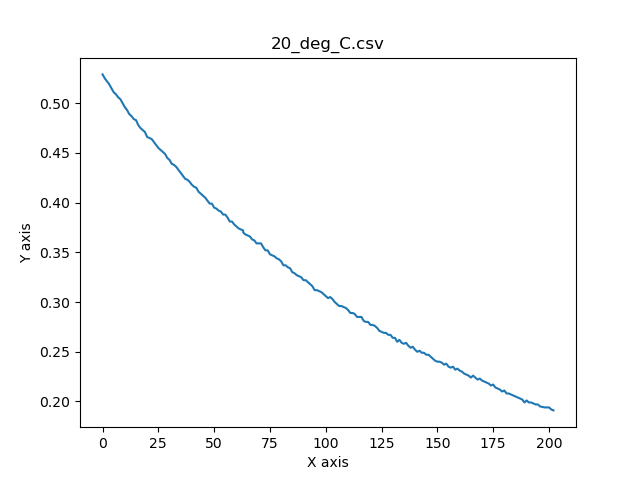
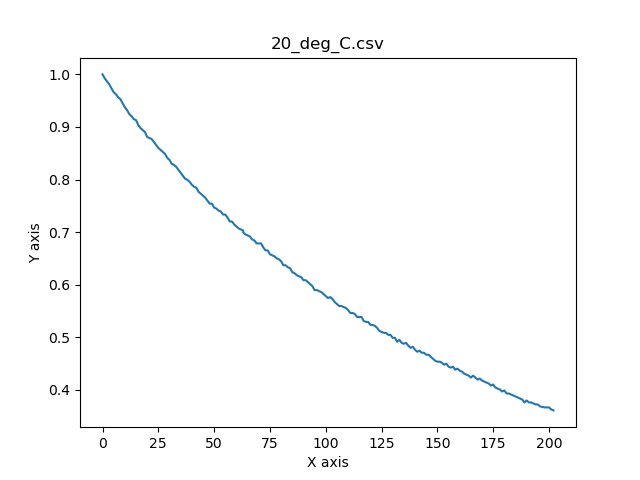
y data is divided by 0.529

diff --git a/plot.py b/plot.py
@@ -1,0 +1,68 @@
+# These libraries contain useful tools we will use to load, processes and plot data
+import numpy as np
+import matplotlib.pyplot as plt
+from scipy.optimize import curve_fit
+from os.path import splitext
+from inspect import getfullargspec
+
+# This allows us to pass arguments to our program
+from sys import argv
+# The first argument is always the name of the program; we will remove it
+files = argv[1:]
+
+# A list of all the files we wish to process
+# Comment this line to use command line arguments
+files = ['20_deg_C.csv']
+
+i = 0
+# We will create a plot from every csv file passed to the program
+for fname in files:
+    # If the filename is not a csv file, it will be skipped
+    if fname[-4:] != '.csv': continue
+    i += 1
+
+    # Load the x and y data from the csv file. Note that the column indexes start from 0, not 1.
+    try:
+        data = np.loadtxt(fname,delimiter=",",skiprows=1)
+    except:
+        print("Could not process file",fname,". This is probably because it contains text outside of the header line. It has been skipped.")
+        continue
+    x = data[:,0]
+    y = data[:,1]/0.529
+    
+    # ----- DATA MANIPULATION --------------------------------------------------------------
+    # Uncomment the relevent line from this section or add your own code
+
+    # Convert time from seconds to minutes
+    # x = x/60
+
+    # Convert y to ln(y)
+    # y = np.log(y)
+
+    # --------------------------------------------------------------------------------------
+
+
+    # ----- PLOTTING DETAILS ---------------------------------------------------------------
+    
+    # Create the figure
+    fig = plt.figure()
+    # Create the "Axes", which contains information for the graph
+    ax = plt.axes()
+
+    # This creates a line graph, adding a straight line between each point
+    # in the input data file
+    ax.plot(x,y,label='Data')
+
+    # Add labels to the x and y axes
+    ax.set_xlabel("X axis")
+    ax.set_ylabel("Y axis")
+
+    # Add a title to the graph; by default this is the
+    # name of the input data file
+    ax.set_title(fname)
+
+    # --------------------------------------------------------------------------------------
+
+    fig.savefig(splitext(fname)[0]+".png")
+
+print('Successfully plotted '+str(i)+' file(s).')
